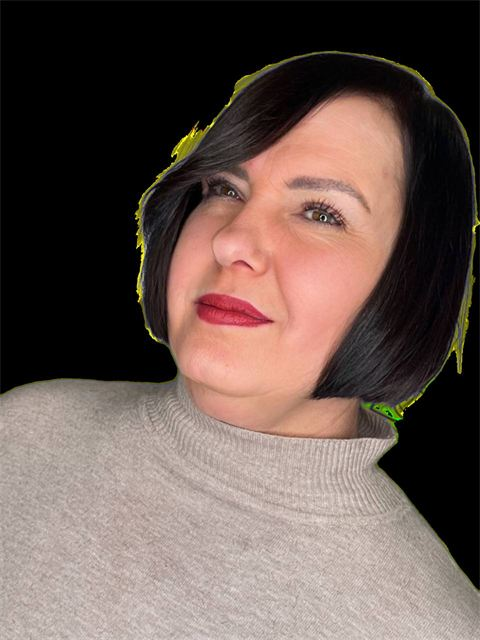
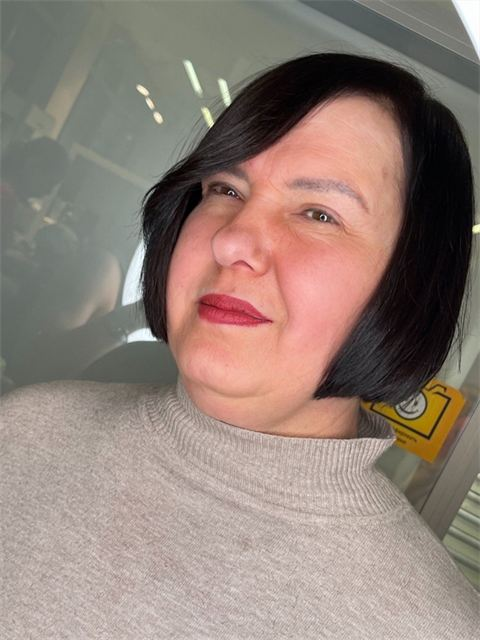
fix: replace the dark bob photo with the client's new shot

diff --git a/index.html b/index.html
@@ -430,7 +430,7 @@
                 <span class="plate__corner plate__corner--bl"><svg class="orn draw" aria-hidden="true"><use href="#orn-corner"/></svg></span>
                 <span class="plate__corner plate__corner--br"><svg class="orn draw" aria-hidden="true"><use href="#orn-corner"/></svg></span>
                 <div class="plate__head"><span>№ 7</span><svg class="orn orn--fleuron" aria-hidden="true"><use href="#orn-fleuron"/></svg><span>Стрижка</span></div>
-                <button class="plate__img plate__open" type="button" aria-haspopup="dialog" data-full="img/raboty/kare-tyomnoe.jpg"><img src="img/raboty/kare-tyomnoe-640.jpg" srcset="img/raboty/kare-tyomnoe-640.jpg 480w, img/raboty/kare-tyomnoe.jpg 959w" sizes="(max-width: 60rem) 44vw, 16rem" width="480" height="640" alt="Тёмное каре с удлинёнными прядями у лица" loading="lazy"></button>
+                <button class="plate__img plate__open" type="button" aria-haspopup="dialog" data-full="img/raboty/kare-tyomnoe.jpg"><img src="img/raboty/kare-tyomnoe-640.jpg" srcset="img/raboty/kare-tyomnoe-640.jpg 480w, img/raboty/kare-tyomnoe.jpg 960w" sizes="(max-width: 60rem) 44vw, 16rem" width="480" height="640" alt="Тёмное каре с удлинёнными прядями у лица" loading="lazy"></button>
                 <figcaption>Тёмное каре с удлинением к лицу.</figcaption>
               </div>
             </figure>
